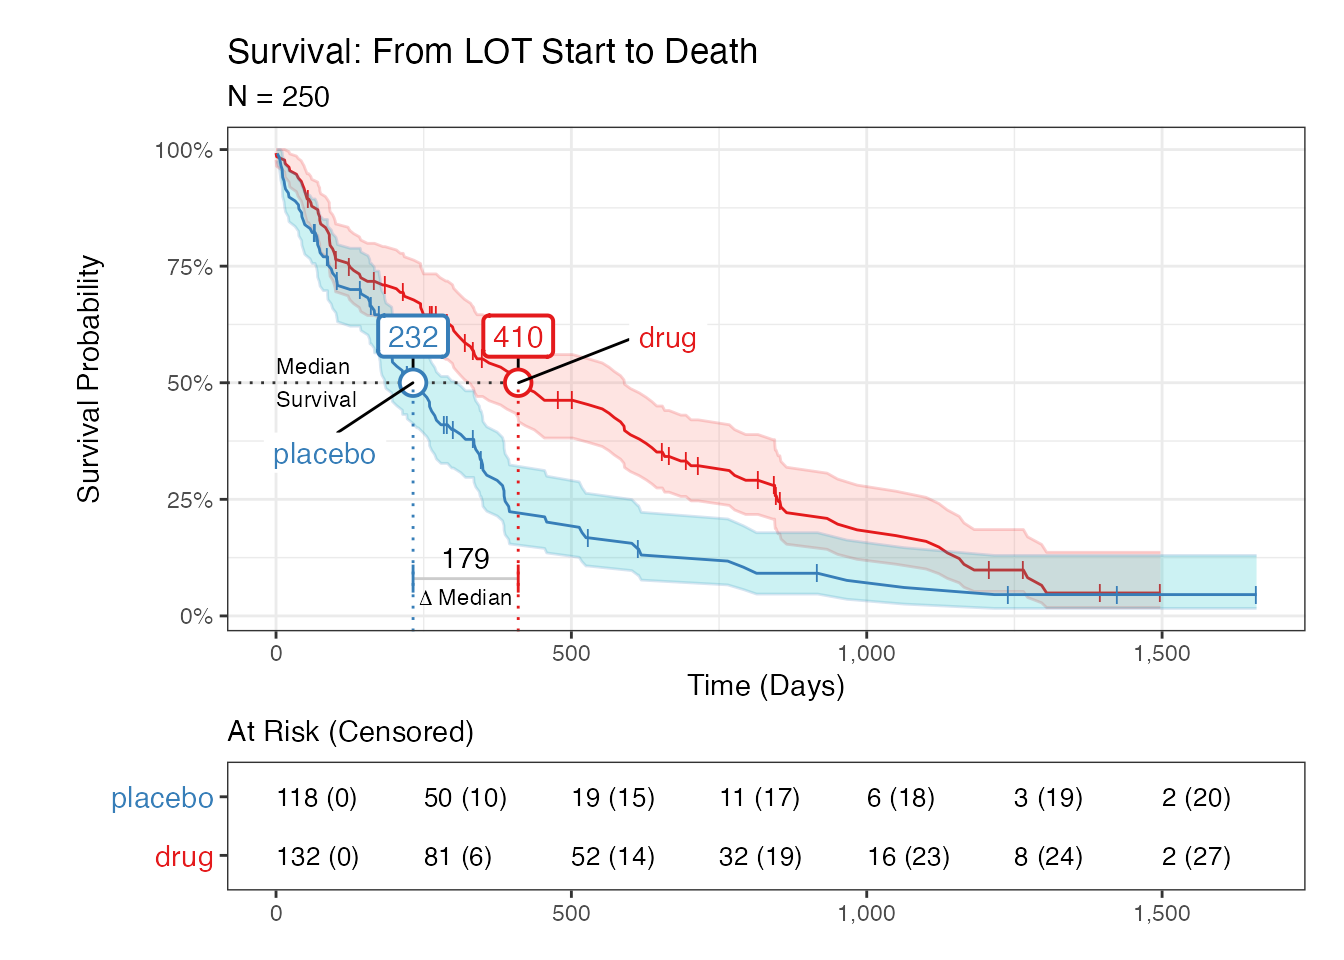
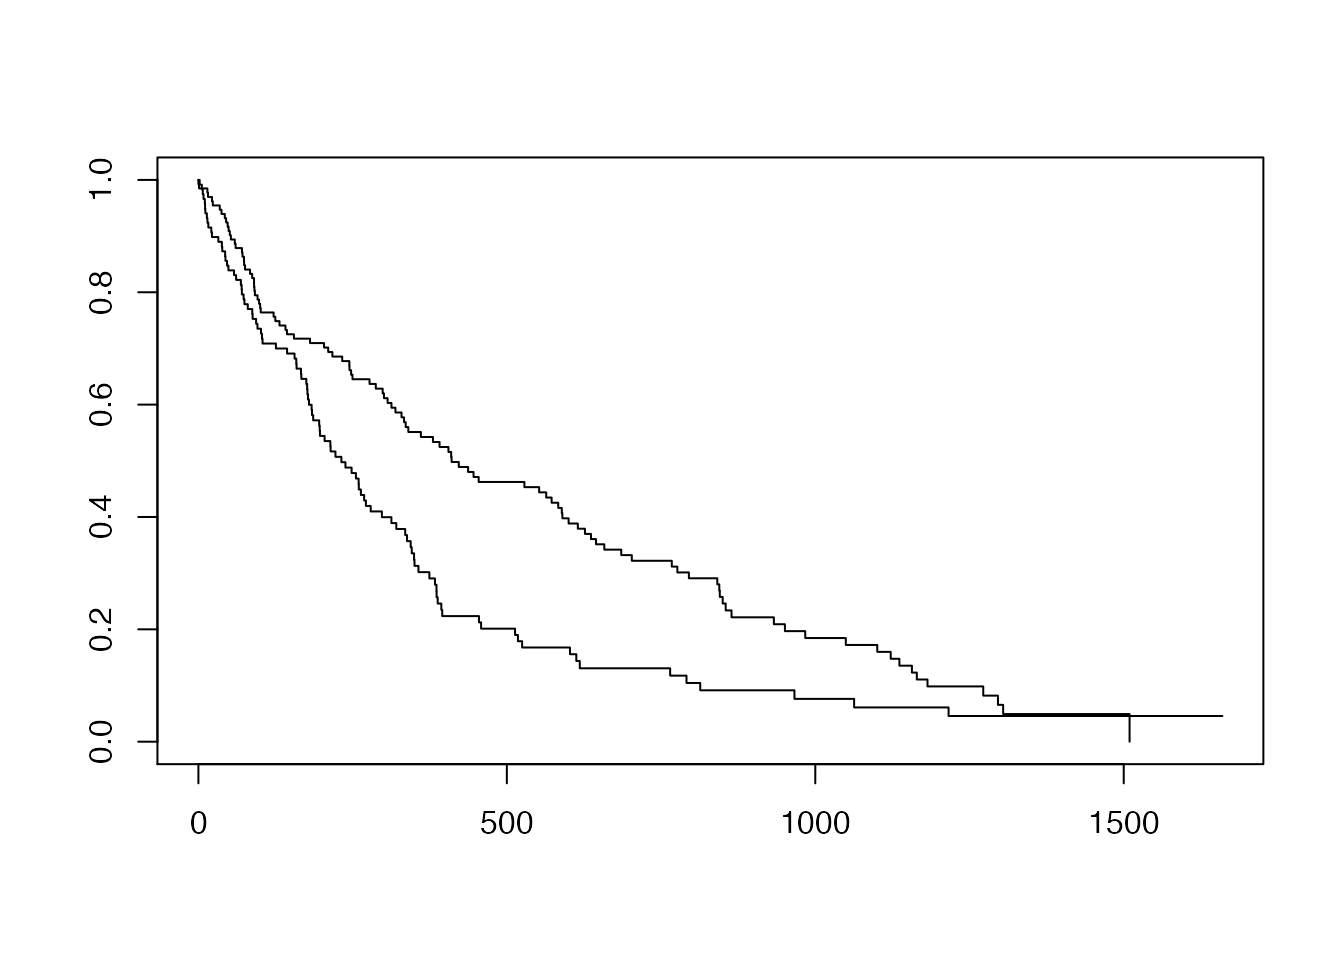
introduction vignette updates and site rebuild

diff --git a/docs/articles/introduction.html b/docs/articles/introduction.html
@@ -56,9 +56,6 @@
 <li>
       <a href="../articles/introduction.html">introduction</a>
     </li>
-    <li>
-      <a href="../articles/plot_iwillsurvive.html">plot_iwillsurvive</a>
-    </li>
   </ul>
 </li>
 <li>
@@ -107,9 +104,7 @@
 <span class="co">#&gt;     intersect, setdiff, setequal, union</span>
 <span class="kw"><a href="https://rdrr.io/r/base/library.html">library</a></span><span class="op">(</span><span class="va"><a href="https://github.com/therneau/survival">survival</a></span><span class="op">)</span>
 <span class="kw"><a href="https://rdrr.io/r/base/library.html">library</a></span><span class="op">(</span><span class="va"><a href="http://ggplot2.tidyverse.org">ggplot2</a></span><span class="op">)</span>
-<span class="kw"><a href="https://rdrr.io/r/base/library.html">library</a></span><span class="op">(</span><span class="va"><a href="https://tidyr.tidyverse.org">tidyr</a></span><span class="op">)</span>
-<span class="kw"><a href="https://rdrr.io/r/base/library.html">library</a></span><span class="op">(</span><span class="va"><a href="http://www.sthda.com/english/rpkgs/survminer/">survminer</a></span><span class="op">)</span>
-<span class="co">#&gt; Loading required package: ggpubr</span></code></pre></div>
+<span class="kw"><a href="https://rdrr.io/r/base/library.html">library</a></span><span class="op">(</span><span class="va"><a href="https://tidyr.tidyverse.org">tidyr</a></span><span class="op">)</span></code></pre></div>
 <div id="the-survival-model" class="section level1">
 <h1 class="hasAnchor">
 <a href="#the-survival-model" class="anchor"></a>The survival model</h1>
@@ -239,8 +234,9 @@
   <span class="fu"><a href="https://dplyr.tidyverse.org/reference/mutate.html">mutate</a></span><span class="op">(</span>patientid <span class="op">=</span> <span class="fu"><a href="https://rdrr.io/r/base/numeric.html">as.numeric</a></span><span class="op">(</span><span class="fu"><a href="https://rdrr.io/r/base/factor.html">factor</a></span><span class="op">(</span><span class="va">patientid</span>, levels <span class="op">=</span> <span class="va">patientid</span>, ordered <span class="op">=</span> <span class="cn">TRUE</span><span class="op">)</span><span class="op">)</span><span class="op">)</span> <span class="op">%&gt;%</span>
   <span class="fu"><a href="https://tidyr.tidyverse.org/reference/pivot_longer.html">pivot_longer</a></span><span class="op">(</span>cols <span class="op">=</span> <span class="va">lotstartdate</span><span class="op">:</span><span class="va">dateofdeath</span>, names_to <span class="op">=</span> <span class="st">"event"</span>, values_to <span class="op">=</span> <span class="st">"date"</span><span class="op">)</span>
 
-<span class="fu"><a href="https://ggplot2.tidyverse.org/reference/ggplot.html">ggplot</a></span><span class="op">(</span><span class="va">ez_cohort_long</span>, <span class="fu"><a href="https://ggplot2.tidyverse.org/reference/aes.html">aes</a></span><span class="op">(</span>x <span class="op">=</span> <span class="va">date</span>, y <span class="op">=</span> <span class="va">patientid</span>, col <span class="op">=</span> <span class="va">condition</span>, shape <span class="op">=</span> <span class="va">event</span><span class="op">)</span><span class="op">)</span> <span class="op">+</span>
+<span class="fu"><a href="https://ggplot2.tidyverse.org/reference/ggplot.html">ggplot</a></span><span class="op">(</span><span class="va">ez_cohort_long</span>, <span class="fu"><a href="https://ggplot2.tidyverse.org/reference/aes.html">aes</a></span><span class="op">(</span>x <span class="op">=</span> <span class="va">date</span>, y <span class="op">=</span> <span class="va">patientid</span>, col <span class="op">=</span> <span class="va">event</span>, shape <span class="op">=</span> <span class="va">event</span><span class="op">)</span><span class="op">)</span> <span class="op">+</span>
   <span class="fu"><a href="https://ggplot2.tidyverse.org/reference/geom_point.html">geom_point</a></span><span class="op">(</span><span class="op">)</span> <span class="op">+</span>
+  <span class="fu"><a href="https://ggplot2.tidyverse.org/reference/facet_wrap.html">facet_wrap</a></span><span class="op">(</span><span class="op">~</span><span class="va">condition</span><span class="op">)</span> <span class="op">+</span>
   <span class="fu"><a href="https://ggplot2.tidyverse.org/reference/theme.html">theme</a></span><span class="op">(</span>legend.position <span class="op">=</span> <span class="st">"top"</span><span class="op">)</span>
 <span class="co">#&gt; Warning: Removed 48 rows containing missing values (geom_point).</span></code></pre></div>
 <p><img src="introduction_files/figure-html/unnamed-chunk-3-1.png" width="672"></p>
@@ -397,7 +393,7 @@
 </tr>
 </tbody>
 </table>
-<p>Now we can vizualise the survival data</p>
+<p>Now we can visualize the survival data</p>
 <div class="sourceCode" id="cb4"><pre class="downlit sourceCode r">
 <code class="sourceCode R"><span class="va">cohort_long</span> <span class="op">&lt;-</span> <span class="va">cohort</span> <span class="op">%&gt;%</span>
   <span class="fu"><a href="https://dplyr.tidyverse.org/reference/arrange.html">arrange</a></span><span class="op">(</span><span class="va">followup_days</span><span class="op">)</span> <span class="op">%&gt;%</span>
@@ -413,7 +409,7 @@
 <div id="fitting-survival-models" class="section level1">
 <h1 class="hasAnchor">
 <a href="#fitting-survival-models" class="anchor"></a>Fitting survival models</h1>
-<p>First, let’s fit the model using the <code>survival</code> interface</p>
+<p>First, let’s fit the model using the classic <code>survival</code> interface</p>
 <div class="sourceCode" id="cb5"><pre class="downlit sourceCode r">
 <code class="sourceCode R"><span class="va">cohort_survival</span> <span class="op">&lt;-</span> <span class="fu"><a href="https://rdrr.io/pkg/survival/man/survfit.html">survfit</a></span><span class="op">(</span><span class="fu"><a href="https://rdrr.io/pkg/survival/man/Surv.html">Surv</a></span><span class="op">(</span><span class="va">followup_days</span>, <span class="va">event_status</span>, type <span class="op">=</span> <span class="st">'right'</span><span class="op">)</span> <span class="op">~</span> <span class="va">condition</span>,
                                 data <span class="op">=</span> <span class="va">cohort</span><span class="op">)</span></code></pre></div>
@@ -465,17 +461,22 @@
 <span class="co">#&gt; |................p..............d.............</span>
 <span class="co">#&gt; |............................p......d.........</span></code></pre></div>
 </div>
-<div id="plotting-results" class="section level1">
+<div id="plotting-the-survival-curve" class="section level1">
 <h1 class="hasAnchor">
-<a href="#plotting-results" class="anchor"></a>Plotting results</h1>
-<p>To plot the survival curve from <code>iwillsurvive</code>, use the <code><a href="../reference/plot_survival.html">plot_survival()</a></code> function:</p>
+<a href="#plotting-the-survival-curve" class="anchor"></a>Plotting the survival curve</h1>
+<p>Before we look at the <code>iwillsurvive</code> survival curve, let’s look at the default plotting method that comes with the <code>survival</code> package. The plot we’ll get with <code>iwillsurvive</code> will be based on the exact same model, so looking at this first serves as a gut-check to make sure that <code>iwillsurvive</code> hasn’t messed things up:</p>
 <div class="sourceCode" id="cb9"><pre class="downlit sourceCode r">
+<code class="sourceCode R"><span class="fu"><a href="https://rdrr.io/r/graphics/plot.default.html">plot</a></span><span class="op">(</span><span class="va">cohort_survival</span><span class="op">)</span></code></pre></div>
+<p><img src="introduction_files/figure-html/unnamed-chunk-11-1.png" width="672"></p>
+<p>Now let’s create the <code>iwillsurvive</code> plot. To do this, we’ll use the <code><a href="../reference/plot_survival.html">plot_survival()</a></code> function:</p>
+<div class="sourceCode" id="cb10"><pre class="downlit sourceCode r">
 <code class="sourceCode R"><span class="fu"><a href="../reference/plot_survival.html">plot_survival</a></span><span class="op">(</span><span class="va">cohort_iws</span><span class="op">)</span>
 <span class="co">#&gt; Warning in is.na(x): is.na() applied to non-(list or vector) of type</span>
 <span class="co">#&gt; 'expression'</span></code></pre></div>
-<p><img src="introduction_files/figure-html/unnamed-chunk-11-1.png" width="672"></p>
+<p><img src="introduction_files/figure-html/unnamed-chunk-12-1.png" width="672"></p>
+<p>Yep looks like the same curve as the <code>survival</code> method, but just with some extra <a href="https://www.youtube.com/watch?v=3vdcw415OcQ&amp;ab_channel=TITTSRecords">flair</a>. Just what we wanted.</p>
 <p>The <code><a href="../reference/plot_survival.html">plot_survival()</a></code> function has many optional arguments that allow you customize the plot. Here are some examples:</p>
-<div class="sourceCode" id="cb10"><pre class="downlit sourceCode r">
+<div class="sourceCode" id="cb11"><pre class="downlit sourceCode r">
 <code class="sourceCode R"><span class="fu"><a href="../reference/plot_survival.html">plot_survival</a></span><span class="op">(</span><span class="va">cohort_iws</span>, 
               add_confidence <span class="op">=</span> <span class="cn">FALSE</span>, 
               add_median_delta <span class="op">=</span> <span class="cn">FALSE</span>, 
@@ -489,20 +490,20 @@
               title <span class="op">=</span> <span class="st">"My Title"</span>,
               subtitle <span class="op">=</span> <span class="st">"My Subttitle"</span>,
               risk_table_title <span class="op">=</span> <span class="st">"My Risk Table Title"</span><span class="op">)</span></code></pre></div>
-<p><img src="introduction_files/figure-html/unnamed-chunk-12-1.png" width="672"></p>
+<p><img src="introduction_files/figure-html/unnamed-chunk-13-1.png" width="672"></p>
 </div>
 <div id="understanding-iwillsurvive-objects" class="section level1">
 <h1 class="hasAnchor">
 <a href="#understanding-iwillsurvive-objects" class="anchor"></a>Understanding iwillsurvive objects</h1>
 <p>The <code><a href="../reference/iwillsurvive.html">iwillsurvive()</a></code> function returns an object of class <code>iwillsurvive</code>. Internally, it is a list containing many objects from the original data, to a <code>survival</code> object:</p>
-<div class="sourceCode" id="cb11"><pre class="downlit sourceCode r">
+<div class="sourceCode" id="cb12"><pre class="downlit sourceCode r">
 <code class="sourceCode R"><span class="fu"><a href="https://rdrr.io/r/base/names.html">names</a></span><span class="op">(</span><span class="va">cohort_iws</span><span class="op">)</span>
 <span class="co">#&gt;  [1] "cohort"              "fit"                 "fit_summary"        </span>
 <span class="co">#&gt;  [4] "terms"               "event_title"         "index_title"        </span>
 <span class="co">#&gt;  [7] "followup_time_col"   "followup_time_units" "timeatrisk_col"     </span>
 <span class="co">#&gt; [10] "event_status_col"    "patientid_col"       "title"</span></code></pre></div>
 <p>The <code>.$cohort</code> object contains the original data</p>
-<div class="sourceCode" id="cb12"><pre class="downlit sourceCode r">
+<div class="sourceCode" id="cb13"><pre class="downlit sourceCode r">
 <code class="sourceCode R"><span class="va">cohort_iws</span><span class="op">$</span><span class="va">cohort</span>
 <span class="co">#&gt; # A tibble: 250 x 10</span>
 <span class="co">#&gt;    patientid condition lotstartdate lastvisitdate dateofdeath followup_date</span>
@@ -520,7 +521,7 @@
 <span class="co">#&gt; # … with 240 more rows, and 4 more variables: followup_days &lt;dbl&gt;,</span>
 <span class="co">#&gt; #   followup_months &lt;dbl&gt;, followup_years &lt;dbl&gt;, event_status &lt;lgl&gt;</span></code></pre></div>
 <p>The <code>.$fit</code> object contains the <code>survival</code> object</p>
-<div class="sourceCode" id="cb13"><pre class="downlit sourceCode r">
+<div class="sourceCode" id="cb14"><pre class="downlit sourceCode r">
 <code class="sourceCode R"><span class="va">cohort_iws</span><span class="op">$</span><span class="va">fit</span>
 <span class="co">#&gt; Call: survfit(formula = survival::Surv(followup_days, event_status, </span>
 <span class="co">#&gt;     type = "right") ~ condition, data = cohort)</span>
@@ -529,7 +530,7 @@
 <span class="co">#&gt; condition=drug    132    105    410     329     590</span>
 <span class="co">#&gt; condition=placebo 118     97    232     184     313</span></code></pre></div>
 <p>The <code>.$fit_summary</code> object contains summary information:</p>
-<div class="sourceCode" id="cb14"><pre class="downlit sourceCode r">
+<div class="sourceCode" id="cb15"><pre class="downlit sourceCode r">
 <code class="sourceCode R"><span class="va">cohort_iws</span><span class="op">$</span><span class="va">fit_summary</span>
 <span class="co">#&gt; # A tibble: 2 x 10</span>
 <span class="co">#&gt;   strata records n.max n.start events `*rmean` `*se(rmean)` median `0.95LCL`</span>
@@ -541,14 +542,14 @@
 <div id="why-did-i-create-iwillsurvive" class="section level1">
 <h1 class="hasAnchor">
 <a href="#why-did-i-create-iwillsurvive" class="anchor"></a>Why did I create iwillsurvive?</h1>
-<p>There already exist many, very good, R packages for survival analysis. Two In particular have become almost gold-standards, and for good reason. The <a href="https://github.com/therneau/survival">survival</a> package provides a flexible interface for fitting models, while the <a href="https://github.com/kassambara/survminer">survminer</a> package allows you to create survival plots and extract key statistics from objects created from the <code>survival</code> package. I have been using <code>survival</code> and <code>survminer</code> regular in my research for a few years and they have served me very well. I am truly grateful to their authors and rely on both in <code>iwillsurvive</code></p>
+<p>There already exist many, very good, R packages for survival analysis. Two in particular, <a href="https://github.com/therneau/survival">survival</a> and <a href="https://github.com/kassambara/survminer">survminer</a>, have become almost gold-standards, and for good reason. The survival package provides a flexible interface for fitting models, while the survminer package allows you to create survival plots and extract key statistics from objects created from the <code>survival</code> package. I have been using <code>survival</code> and <code>survminer</code> regular in my research for a few years and they have served me very well. I am truly grateful to their authors and rely on both in <code>iwillsurvive</code></p>
 <p>However, I have run into a few pain points that I feel can be filled with a new package</p>
 <ol style="list-style-type: decimal">
 <li><p>The syntax for creating simple survival models with <code>survival</code> is, in my opinion, not very intuitive. For example, creating a basic right-censored survival model requires the user to write write a nested function call such as: <code><a href="https://rdrr.io/pkg/survival/man/survfit.html">survfit(Surv(time, status) ~ x, data = aml)</a></code>. Without digging into the documentation, it’s hard to know what these arguments mean (and easy to forget that <code><a href="https://rdrr.io/pkg/survival/man/Surv.html">Surv()</a></code> is capitalized!).</p></li>
 <li><p>The <code>survival</code> package is, in my opinion, too flexible in the kinds of arguments it allows. For example, when specifying the value of the event, one can pass a vector with a binary coding (0 = alive, 1 = dead), a logical coding (FALSE = Alive, TRUE = Death) or a 1/2 coding (1 = Alive, 2 = Death). This flexibility is in my experience, introduces risks. I once spent several days fitting models using <code>survival</code> only to realize that I had been using the 1/2 coding but coded 1 = Death and 2 = Alive. If there had only been one event coding option (like my preferred logical format), I think I would have caught the error much earlier.</p></li>
 <li><p>This is a personal preference – but I <em>love</em> immediate console feedback from functions. Something that tells me what code is doing and what the most important results are. This helps me know that everything went as expected, and can give me early warnings when things look…wrong. In the case of fitting a survival model, I’d love to have feedback telling me things like how many patients had the event, how many were censored, and what the overall median survival was. If I had this feedback, I definitely would have caught my 1/2 coding error much earlier.</p></li>
-<li><p><code><a href="https://rdrr.io/pkg/survminer/man/ggsurvplot.html">ggsurvplot()</a></code> the workhorse plotting function in <code>survminer</code> is incredibly flexible, but in my opinion the argument defaults (for example, not including a confidence interval) are not ideal. I wanted a plotting function which gives me all the bells-and-whistles by default.</p></li>
-<li><p>The first thing almost everyone wants to know when fitting and vizualising a Kaplan-Meier survival model is the median survival of each group. While one can extract this info from <code>survival</code> and <code>survminer</code>, I found that it doesn’t ‘jump out at me’ as clearly as I wanted.</p></li>
+<li><p><code>ggsurvplot()</code> the workhorse plotting function in <code>survminer</code> is incredibly flexible, but in my opinion the argument defaults (for example, not including a confidence interval) are not ideal. I wanted a plotting function which gives me all the bells-and-whistles by default.</p></li>
+<li><p>The first thing almost everyone wants to know when fitting and visualizing a Kaplan-Meier survival model is the median survival of each group. While one can extract this info from <code>survival</code> and <code>survminer</code>, I found that it doesn’t ‘jump out at me’ as clearly as I wanted.</p></li>
 </ol>
 </div>
   </div>

diff --git a/docs/reference/plot_survival.html b/docs/reference/plot_survival.html
@@ -97,9 +97,6 @@
     <li>
       <a href="../articles/introduction.html">introduction</a>
     </li>
-    <li>
-      <a href="../articles/plot_iwillsurvive.html">plot_iwillsurvive</a>
-    </li>
   </ul>
 </li>
 <li>
@@ -136,8 +133,13 @@
   ggtheme <span class='op'>=</span> <span class='fu'>ggplot2</span><span class='fu'>::</span><span class='fu'><a href='https://ggplot2.tidyverse.org/reference/ggtheme.html'>theme_bw</a></span><span class='op'>(</span><span class='op'>)</span>,
   palette <span class='op'>=</span> <span class='st'>"Set1"</span>,
   simple <span class='op'>=</span> <span class='cn'>FALSE</span>,
+  title <span class='op'>=</span> <span class='cn'>NULL</span>,
+  subtitle <span class='op'>=</span> <span class='cn'>NULL</span>,
+  censor_pch <span class='op'>=</span> <span class='st'>"|"</span>,
+  censor_size <span class='op'>=</span> <span class='fl'>3</span>,
   add_gridlines <span class='op'>=</span> <span class='cn'>TRUE</span>,
   add_confidence <span class='op'>=</span> <span class='cn'>TRUE</span>,
+  add_censor_ticks <span class='op'>=</span> <span class='cn'>TRUE</span>,
   add_labels <span class='op'>=</span> <span class='cn'>TRUE</span>,
   add_median <span class='op'>=</span> <span class='cn'>TRUE</span>,
   add_median_delta <span class='op'>=</span> <span class='cn'>TRUE</span>,
@@ -153,6 +155,7 @@
   median_flag_nudge_y <span class='op'>=</span> <span class='fl'>0.1</span>,
   median_flag_thickness <span class='op'>=</span> <span class='fl'>0.7</span>,
   risk_table <span class='op'>=</span> <span class='cn'>TRUE</span>,
+  risk_table_title <span class='op'>=</span> <span class='cn'>NULL</span>,
   risk_size <span class='op'>=</span> <span class='fl'>3.5</span>,
   risk_label_size <span class='op'>=</span> <span class='fl'>1.25</span>,
   index_title <span class='op'>=</span> <span class='cn'>NULL</span>,
@@ -186,12 +189,32 @@
       <td><p>logical. If TRUE, only plot the Kaplan-Meier estimate</p></td>
     </tr>
     <tr>
+      <th>title</th>
+      <td><p>character. Plot title</p></td>
+    </tr>
+    <tr>
+      <th>subtitle</th>
+      <td><p>character. Plot subtitle</p></td>
+    </tr>
+    <tr>
+      <th>censor_pch</th>
+      <td><p>character. The point shape for censor ticks. See <code><a href='https://rdrr.io/r/graphics/points.html'>?points</a></code>.</p></td>
+    </tr>
+    <tr>
+      <th>censor_size</th>
+      <td><p>numeric. Size of censor ticks.</p></td>
+    </tr>
+    <tr>
       <th>add_gridlines</th>
       <td><p>logical. If TRUE, include gridlines</p></td>
     </tr>
     <tr>
       <th>add_confidence</th>
       <td><p>logical. If TRUE, include a confidence interval</p></td>
+    </tr>
+    <tr>
+      <th>add_censor_ticks</th>
+      <td><p>logical. If TRUE, show censoring tick marks</p></td>
     </tr>
     <tr>
       <th>add_labels</th>
@@ -254,6 +277,10 @@ Only used if legend_position = "inside"</p></td>
     <tr>
       <th>risk_table</th>
       <td><p>logical. If TRUE, include the risk table</p></td>
+    </tr>
+    <tr>
+      <th>risk_table_title</th>
+      <td><p>character. Title for the risk table</p></td>
     </tr>
     <tr>
       <th>risk_size</th>

diff --git a/docs/reference/iwillsurvive.html b/docs/reference/iwillsurvive.html
@@ -98,9 +98,6 @@ Create an iwillsurvive object" />
     <li>
       <a href="../articles/introduction.html">introduction</a>
     </li>
-    <li>
-      <a href="../articles/plot_iwillsurvive.html">plot_iwillsurvive</a>
-    </li>
   </ul>
 </li>
 <li>
@@ -140,8 +137,8 @@ Create an iwillsurvive object" />
   terms <span class='op'>=</span> <span class='cn'>NULL</span>,
   type <span class='op'>=</span> <span class='st'>"right"</span>,
   fit <span class='op'>=</span> <span class='cn'>NULL</span>,
-  event_title <span class='op'>=</span> <span class='cn'>NULL</span>,
-  index_title <span class='op'>=</span> <span class='cn'>NULL</span>,
+  event_title <span class='op'>=</span> <span class='st'>"&lt;event&gt;"</span>,
+  index_title <span class='op'>=</span> <span class='st'>"&lt;index&gt;"</span>,
   title <span class='op'>=</span> <span class='cn'>NULL</span>,
   followup_time_units <span class='op'>=</span> <span class='cn'>NULL</span>,
   verbose <span class='op'>=</span> <span class='cn'>TRUE</span>
@@ -155,8 +152,8 @@ Create an iwillsurvive object" />
   terms <span class='op'>=</span> <span class='cn'>NULL</span>,
   type <span class='op'>=</span> <span class='st'>"right"</span>,
   fit <span class='op'>=</span> <span class='cn'>NULL</span>,
-  event_title <span class='op'>=</span> <span class='cn'>NULL</span>,
-  index_title <span class='op'>=</span> <span class='cn'>NULL</span>,
+  event_title <span class='op'>=</span> <span class='st'>"&lt;event&gt;"</span>,
+  index_title <span class='op'>=</span> <span class='st'>"&lt;index&gt;"</span>,
   title <span class='op'>=</span> <span class='cn'>NULL</span>,
   followup_time_units <span class='op'>=</span> <span class='cn'>NULL</span>,
   verbose <span class='op'>=</span> <span class='cn'>TRUE</span>

diff --git a/docs/articles/index.html b/docs/articles/index.html
@@ -96,9 +96,6 @@
     <li>
       <a href="../articles/introduction.html">introduction</a>
     </li>
-    <li>
-      <a href="../articles/plot_iwillsurvive.html">plot_iwillsurvive</a>
-    </li>
   </ul>
 </li>
 <li>
@@ -129,8 +126,6 @@
 
       <dl>
         <dt><a href="introduction.html">introduction</a></dt>
-        <dd></dt>
-        <dt><a href="plot_iwillsurvive.html">plot_iwillsurvive</a></dt>
         <dd></dt>
       </dl>
     </div>

diff --git a/docs/news/index.html b/docs/news/index.html
@@ -96,9 +96,6 @@
     <li>
       <a href="../articles/introduction.html">introduction</a>
     </li>
-    <li>
-      <a href="../articles/plot_iwillsurvive.html">plot_iwillsurvive</a>
-    </li>
   </ul>
 </li>
 <li>

diff --git a/docs/reference/derive_event_status.html b/docs/reference/derive_event_status.html
@@ -97,9 +97,6 @@
     <li>
       <a href="../articles/introduction.html">introduction</a>
     </li>
-    <li>
-      <a href="../articles/plot_iwillsurvive.html">plot_iwillsurvive</a>
-    </li>
   </ul>
 </li>
 <li>

diff --git a/docs/reference/derive_followup_date.html b/docs/reference/derive_followup_date.html
@@ -97,9 +97,6 @@
     <li>
       <a href="../articles/introduction.html">introduction</a>
     </li>
-    <li>
-      <a href="../articles/plot_iwillsurvive.html">plot_iwillsurvive</a>
-    </li>
   </ul>
 </li>
 <li>

diff --git a/docs/reference/derive_followup_time.html b/docs/reference/derive_followup_time.html
@@ -97,9 +97,6 @@
     <li>
       <a href="../articles/introduction.html">introduction</a>
     </li>
-    <li>
-      <a href="../articles/plot_iwillsurvive.html">plot_iwillsurvive</a>
-    </li>
   </ul>
 </li>
 <li>

diff --git a/docs/reference/ez_cohort.html b/docs/reference/ez_cohort.html
@@ -97,9 +97,6 @@
     <li>
       <a href="../articles/introduction.html">introduction</a>
     </li>
-    <li>
-      <a href="../articles/plot_iwillsurvive.html">plot_iwillsurvive</a>
-    </li>
   </ul>
 </li>
 <li>

diff --git a/docs/reference/get_codename.html b/docs/reference/get_codename.html
@@ -97,9 +97,6 @@
     <li>
       <a href="../articles/introduction.html">introduction</a>
     </li>
-    <li>
-      <a href="../articles/plot_iwillsurvive.html">plot_iwillsurvive</a>
-    </li>
   </ul>
 </li>
 <li>

diff --git a/docs/reference/get_event_status_col.html b/docs/reference/get_event_status_col.html
@@ -97,9 +97,6 @@
     <li>
       <a href="../articles/introduction.html">introduction</a>
     </li>
-    <li>
-      <a href="../articles/plot_iwillsurvive.html">plot_iwillsurvive</a>
-    </li>
   </ul>
 </li>
 <li>

diff --git a/docs/reference/get_event_title.html b/docs/reference/get_event_title.html
@@ -97,9 +97,6 @@
     <li>
       <a href="../articles/introduction.html">introduction</a>
     </li>
-    <li>
-      <a href="../articles/plot_iwillsurvive.html">plot_iwillsurvive</a>
-    </li>
   </ul>
 </li>
 <li>
